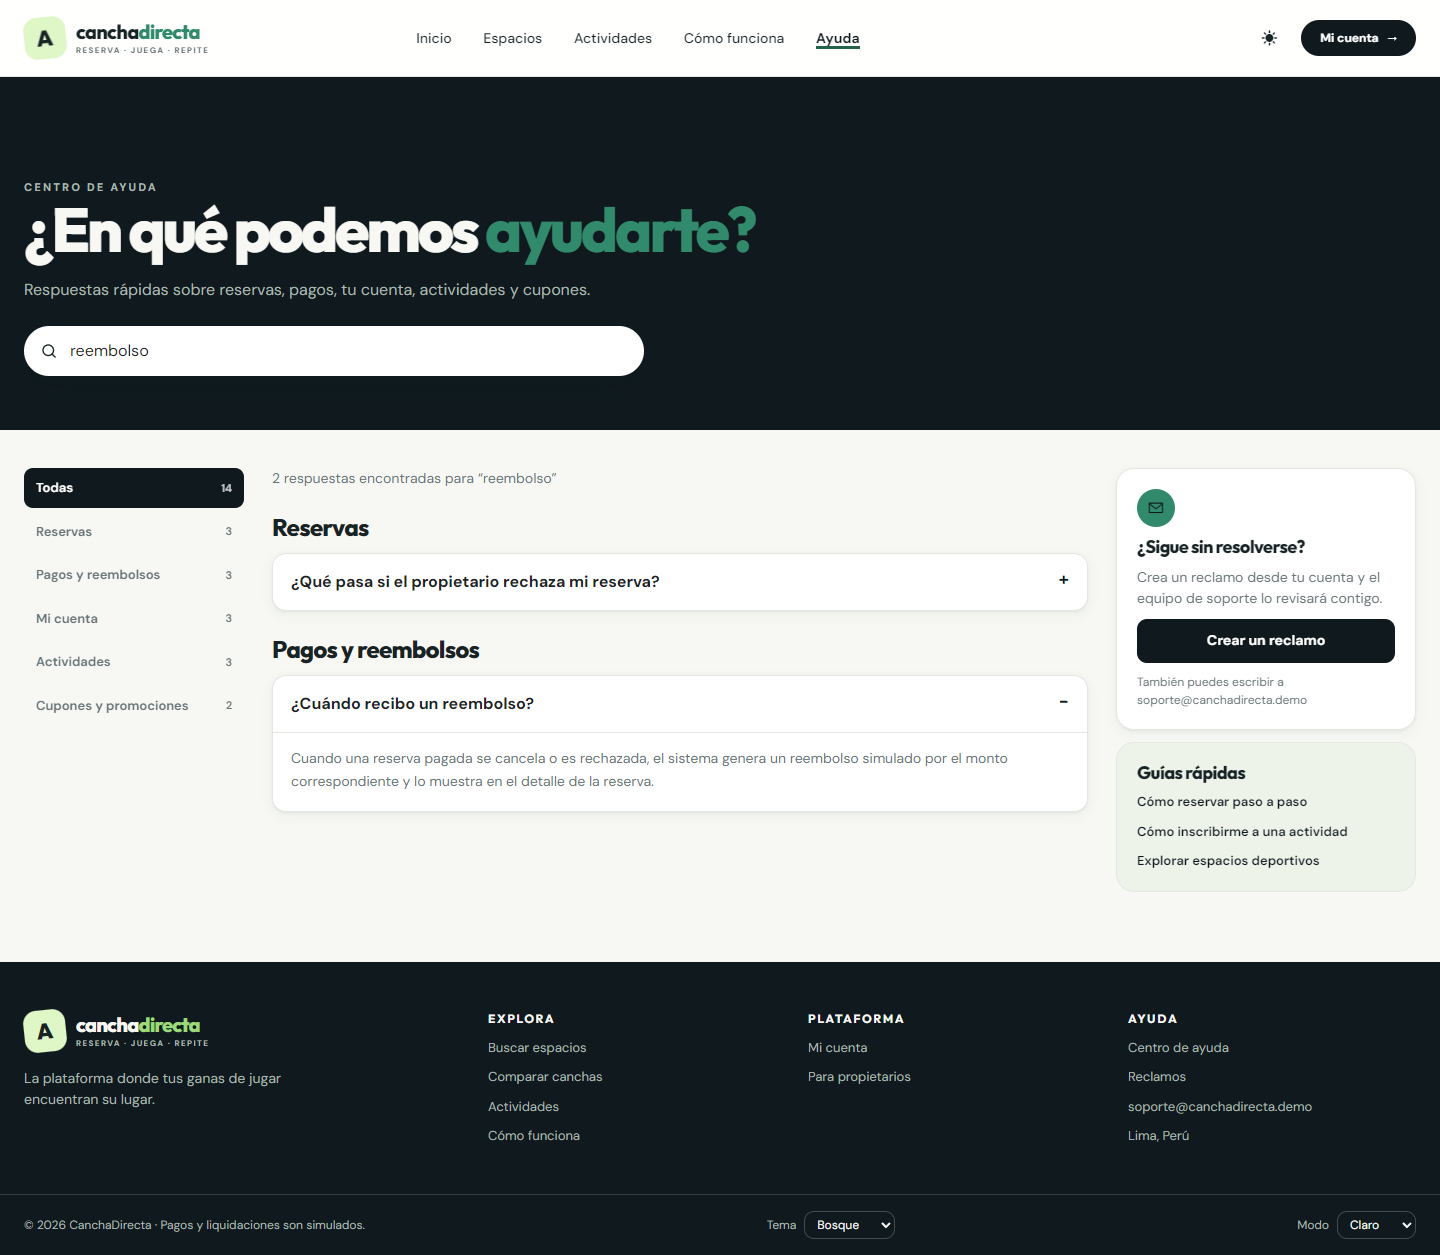
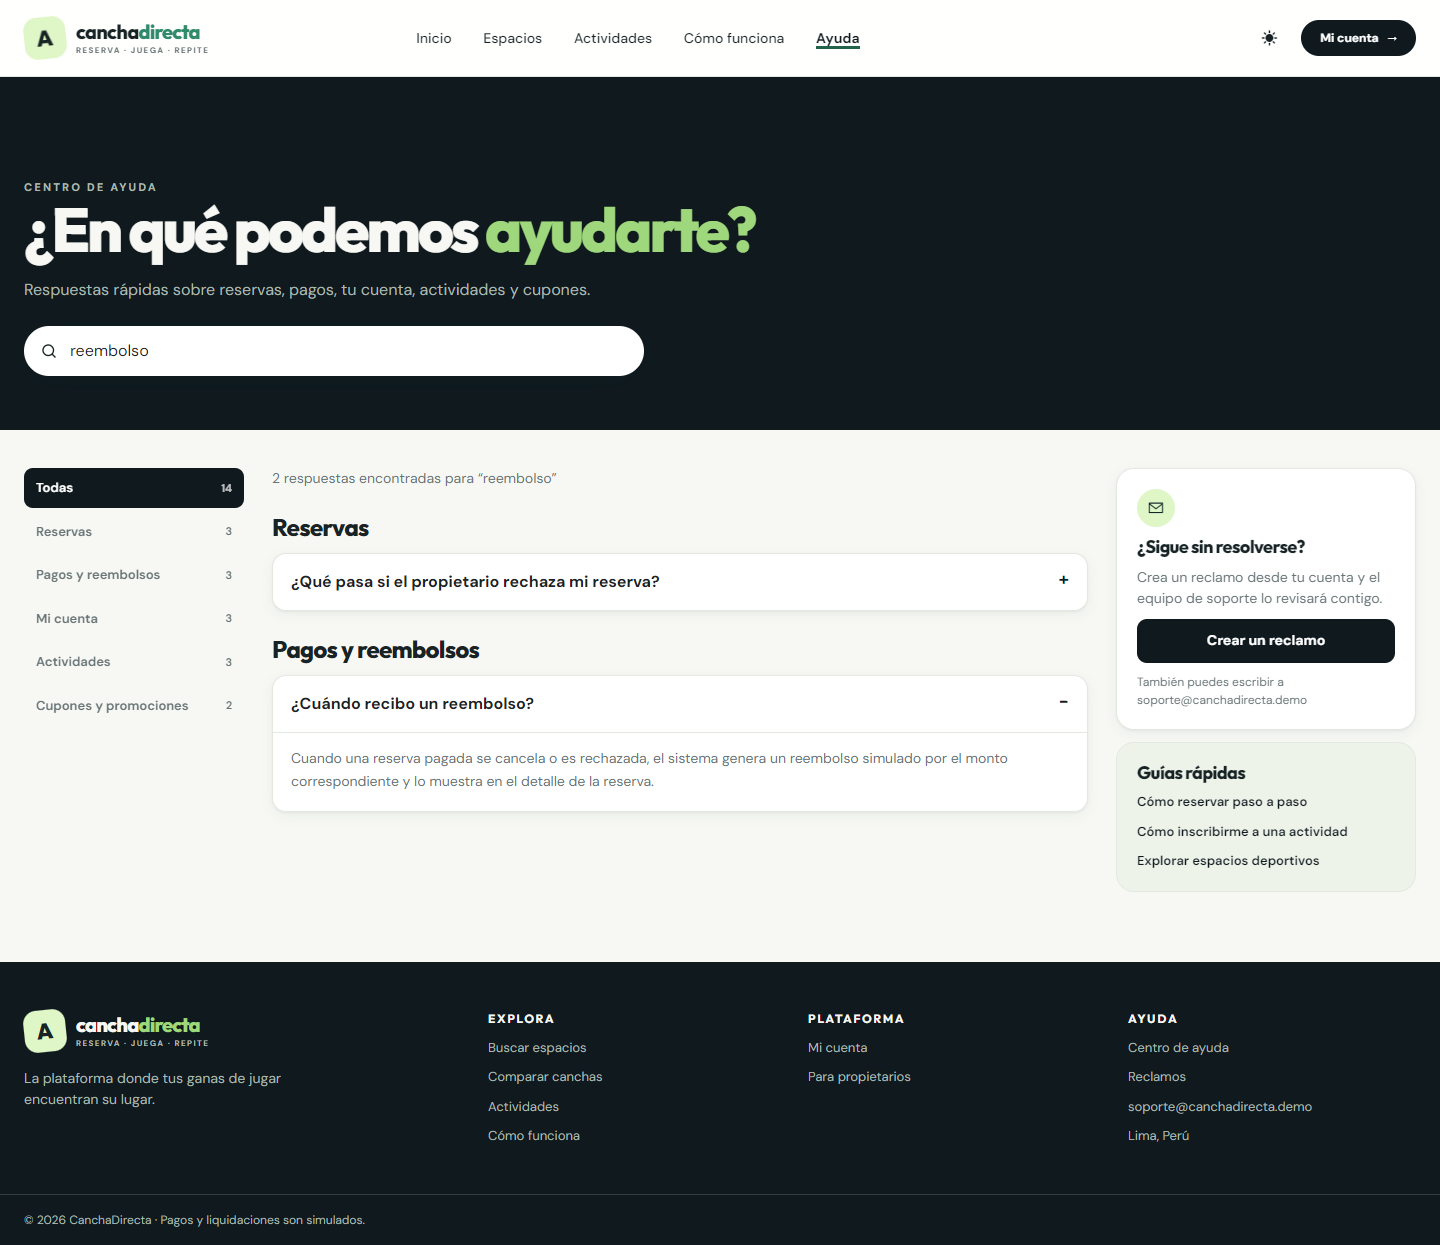
fix: contrastes en oscuro y retiro de los selectores de tema y modo

diff --git a/frontend/src/app/shared/layout/shell.component.ts b/frontend/src/app/shared/layout/shell.component.ts
@@ -15,7 +15,7 @@ import { filter, map, startWith } from 'rxjs';
 import { NotificacionesStore } from '../../core/api/notificaciones.store';
 import { AuthStore } from '../../core/auth/auth.store';
 import { LoadingService } from '../../core/http/loading.service';
-import { MODOS, ModoId, PALETTES, PaletteId, ThemeService } from '../../core/theme/theme.service';
+import { ThemeService } from '../../core/theme/theme.service';
 import { CdToastHostComponent } from '../ui/toast/cd-toast-host.component';
 
 @Component({
@@ -157,24 +157,6 @@ import { CdToastHostComponent } from '../ui/toast/cd-toast-host.component';
             <a routerLink="/auth/registro">Mi cuenta</a>
           }
         </nav>
-        <div class="drawer__paleta">
-          <label class="cd-field">
-            <span class="cd-field__label">Tema</span>
-            <select cdInput [value]="theme.palette()" (change)="cambiarPaleta($event)">
-              @for (paleta of palettes; track paleta.id) {
-                <option [value]="paleta.id">{{ paleta.nombre }}</option>
-              }
-            </select>
-          </label>
-          <label class="cd-field">
-            <span class="cd-field__label">Modo</span>
-            <select cdInput [value]="theme.modo()" (change)="cambiarModo($event)">
-              @for (modo of modos; track modo.id) {
-                <option [value]="modo.id">{{ modo.nombre }}</option>
-              }
-            </select>
-          </label>
-        </div>
       </aside>
     }
     }
@@ -229,22 +211,6 @@ import { CdToastHostComponent } from '../ui/toast/cd-toast-host.component';
       </div>
       <div class="cd-container pie__bottom">
         <span>© {{ year }} CanchaDirecta · Pagos y liquidaciones son simulados.</span>
-        <label class="pie__paleta">
-          <span class="cd-xs">Tema</span>
-          <select class="pie__select" [value]="theme.palette()" (change)="cambiarPaleta($event)" aria-label="Tema visual">
-            @for (paleta of palettes; track paleta.id) {
-              <option [value]="paleta.id">{{ paleta.nombre }}</option>
-            }
-          </select>
-        </label>
-        <label class="pie__paleta">
-          <span class="cd-xs">Modo</span>
-          <select class="pie__select" [value]="theme.modo()" (change)="cambiarModo($event)" aria-label="Modo claro u oscuro">
-            @for (modo of modos; track modo.id) {
-              <option [value]="modo.id">{{ modo.nombre }}</option>
-            }
-          </select>
-        </label>
       </div>
       </footer>
     }
@@ -635,7 +601,7 @@ import { CdToastHostComponent } from '../ui/toast/cd-toast-host.component';
       font-weight: 500;
       text-decoration: none;
     }
-    .cuenta-menu__panel > a:hover {
+    .cuenta-menu__panel > a:not(.cd-btn):hover {
       background: var(--cd-color-surface-alt);
     }
     .cuenta-menu__panel .cd-btn {
@@ -769,8 +735,6 @@ export class ShellComponent {
     else this.notificaciones.limpiar();
   });
 
-  protected readonly palettes = PALETTES;
-  protected readonly modos = MODOS;
   protected readonly year = new Date().getFullYear();
   protected readonly drawerOpen = signal(false);
   protected readonly inicial = computed(() => this.auth.fullName().charAt(0).toUpperCase() || '?');
@@ -811,16 +775,6 @@ export class ShellComponent {
   @HostListener('document:keydown.escape')
   protected cerrarDrawer(): void {
     this.drawerOpen.set(false);
-  }
-
-  protected cambiarPaleta(event: Event): void {
-    const value = (event.target as HTMLSelectElement).value as PaletteId;
-    this.theme.setPalette(value);
-  }
-
-  protected cambiarModo(event: Event): void {
-    const value = (event.target as HTMLSelectElement).value as ModoId;
-    this.theme.setModo(value);
   }
 
   protected async salir(): Promise<void> {

diff --git a/frontend/src/app/features/catalogo/catalogo.component.ts b/frontend/src/app/features/catalogo/catalogo.component.ts
@@ -234,7 +234,7 @@ import { CdSkeletonComponent } from '../../shared/ui/skeleton/cd-skeleton.compon
             </button>
             <button
               type="button"
-              class="cd-btn cd-btn--primary cd-btn--sm"
+              class="cd-btn cd-btn--accent cd-btn--sm"
               [disabled]="!comparacion.puedeComparar()"
               (click)="irAComparar()"
             >
@@ -332,10 +332,10 @@ import { CdSkeletonComponent } from '../../shared/ui/skeleton/cd-skeleton.compon
       padding: 16px;
       border-radius: var(--cd-radius-md);
       background: var(--cd-color-accent-soft);
-      color: var(--cd-color-brand-ink);
+      color: var(--cd-color-text);
     }
     .panel-filtros__tip cd-icon {
-      color: var(--cd-color-brand);
+      color: var(--cd-color-accent);
     }
     .panel-filtros__tip strong {
       display: block;
@@ -343,7 +343,7 @@ import { CdSkeletonComponent } from '../../shared/ui/skeleton/cd-skeleton.compon
     }
     .panel-filtros__tip p {
       margin: 6px 0 0;
-      color: color-mix(in srgb, var(--cd-color-brand-ink) 72%, transparent);
+      color: var(--cd-color-text-muted);
       font-size: 12px;
       line-height: 1.5;
     }
@@ -361,8 +361,8 @@ import { CdSkeletonComponent } from '../../shared/ui/skeleton/cd-skeleton.compon
       gap: 20px;
       padding: 12px 16px 12px 22px;
       border-radius: var(--cd-radius-pill);
-      background: var(--cd-color-primary);
-      color: var(--cd-color-on-primary);
+      background: var(--cd-color-inverse-bg);
+      color: var(--cd-color-inverse-text);
       box-shadow: var(--cd-shadow-3);
     }
     .comparar-barra p {
@@ -375,8 +375,8 @@ import { CdSkeletonComponent } from '../../shared/ui/skeleton/cd-skeleton.compon
       gap: 8px;
     }
     .comparar-barra .cd-btn--ghost {
-      color: var(--cd-color-on-primary);
-      border-color: color-mix(in srgb, var(--cd-color-on-primary) 30%, transparent);
+      color: var(--cd-color-inverse-text);
+      border-color: color-mix(in srgb, var(--cd-color-inverse-text) 30%, transparent);
     }
     @media (max-width: 620px) {
       .comparar-barra {
@@ -565,7 +565,7 @@ import { CdSkeletonComponent } from '../../shared/ui/skeleton/cd-skeleton.compon
       height: 38px;
       border-radius: 50%;
       background: var(--cd-color-accent-soft);
-      color: var(--cd-color-brand-ink);
+      color: var(--cd-color-text);
       text-decoration: none;
       transition:
         background var(--cd-duration-fast),

diff --git a/frontend/src/app/features/public/actividades.component.ts b/frontend/src/app/features/public/actividades.component.ts
@@ -221,7 +221,7 @@ import { ToastService } from '../../shared/ui/toast/toast.service';
       padding: 0 6px;
       border-radius: 999px;
       background: var(--cd-color-accent-soft);
-      color: var(--cd-color-brand-ink);
+      color: var(--cd-color-text);
       font-size: 11px;
       font-weight: 800;
     }
@@ -246,7 +246,7 @@ import { ToastService } from '../../shared/ui/toast/toast.service';
       gap: 2px;
       padding: 18px 10px;
       background: var(--cd-color-accent-soft);
-      color: var(--cd-color-brand-ink);
+      color: var(--cd-color-text);
     }
     .actividad__fecha strong {
       font-family: var(--cd-font-display);

diff --git a/frontend/src/app/features/public/home.component.ts b/frontend/src/app/features/public/home.component.ts
@@ -335,7 +335,7 @@ const EMOJIS: Record<string, string> = {
       border: 2px solid var(--cd-color-inverse-bg);
       border-radius: 50%;
       background: var(--cd-color-success-soft);
-      color: var(--cd-color-brand-ink);
+      color: var(--cd-color-text);
       font-size: 10px;
       font-weight: 800;
     }

diff --git a/frontend/src/styles/_components.scss b/frontend/src/styles/_components.scss
@@ -44,11 +44,11 @@
 
 .cd-btn--accent {
   background: var(--cd-color-accent);
-  color: #04211d;
+  color: var(--cd-color-on-accent);
 }
 .cd-btn--accent:hover:not(:disabled) {
   background: var(--cd-color-accent-strong);
-  color: #ffffff;
+  color: var(--cd-color-on-accent);
 }
 
 .cd-btn--lime {

diff --git a/frontend/src/styles/_utilities.scss b/frontend/src/styles/_utilities.scss
@@ -148,5 +148,5 @@
 }
 .cd-badge--accent {
   background: var(--cd-color-accent-soft);
-  color: var(--cd-color-brand-ink);
+  color: var(--cd-color-text);
 }

diff --git a/HANDOFF.md b/HANDOFF.md
@@ -45,6 +45,10 @@
   Añadidos: filtro por día en el catálogo (`fecha` en `GET /canchas`, por día de agenda), barra
   flotante de comparación que abre `/canchas/comparar`, CTA lima en los héroes oscuros y en la
   banda final, escudo en “Espacios verificados” y pie pegado al contenido (sin `min-height`).
+- Ajustes de contraste claro/oscuro (2026-10-19): retirados los selectores Tema/Modo del pie y del
+  menú móvil (el modo se cambia con el botón de la cabecera); corregidos el tip, las fechas de
+  actividad, los badges, los avatares, la barra de comparación y el botón “Ingresar” del menú al
+  pasar el cursor.
 - Ficha de espacio implementada (2026-10-18): `GET /api/v1/establecimientos/{id}/ficha`,
   ruta `/establecimientos/:id` y enlace desde el detalle de cancha.
 - Actividades reales implementadas (2026-10-18): migración `V14`, API de actividades e
